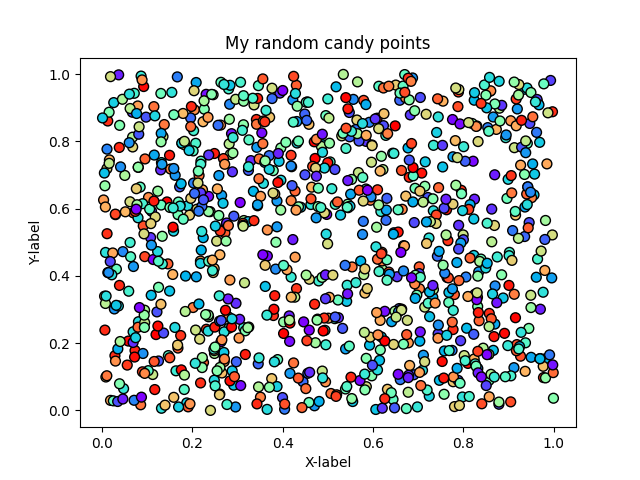
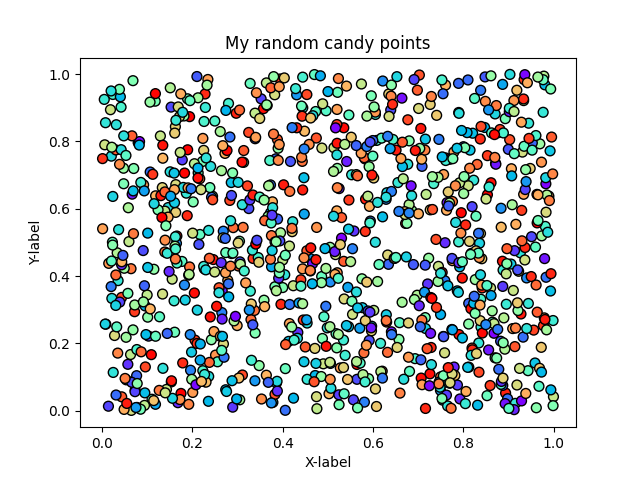
I added the code to save the figure in "my_first_plot.png".

diff --git a/Exercise_7_problem_1.py b/Exercise_7_problem_1.py
@@ -73,7 +73,8 @@ plt.ylabel("Y-label")
 outputfp = "my_first_plot.png"
 
 # YOUR CODE HERE 5
-
+plt.savefig(outputfp)
+plt.show()
 
 # This test print statement should print the output filename of your figure
 print("Saved my first plot as:", outputfp)
